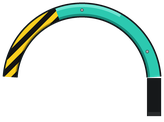
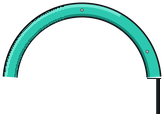
ビルド238

Changed region(s): [[0.0, 0.0492, 0.3963, 0.6393], [0.8841, 0.6393, 1.0, 0.959]]

diff --git a/index.html b/index.html
@@ -301,33 +301,33 @@
     color: #1b1f24; font-size: 13px; font-weight: bold; line-height: 1.2; text-align: center;
     background: none;
     border: 14px solid transparent; border-width: 14px; margin: 0;
-    border-image: url(assets/common/ui/btn_plate.png?v=237) 14 fill / 14px stretch;
+    border-image: url(assets/common/ui/btn_plate.png?v=238) 14 fill / 14px stretch;
     border-radius: 0;
     text-shadow: 0 1px 0 rgba(255,255,255,.35);
   }
-  .plate:active, #floorPanel .mechRow button:active, #chockPanel button:active, #btnOrient:active, #btnOrientCar:active, #deckDrawerHandle:active { border-image-source: url(assets/common/ui/btn_plate_pressed.png?v=237); padding-top: 2px; }
-  #floorPanel .mechRow button.on, #chockPanel button.on, #btnOrientCar { border-image-source: url(assets/common/ui/btn_plate_go.png?v=237); }
-  #floorPanel .mechRow button.on:active, #btnOrientCar:active { border-image-source: url(assets/common/ui/btn_plate_go_pressed.png?v=237); }
-  #btnStopper:not(.on), #btnLid { border-image-source: url(assets/common/ui/btn_plate_warn.png?v=237); }
-  #btnStopper:not(.on):active, #btnLid:active { border-image-source: url(assets/common/ui/btn_plate_warn_pressed.png?v=237); }
-  #floorPanel .mechRow button.go { border-image-source: url(assets/common/ui/btn_plate_go.png?v=237); }
-  #floorPanel .mechRow button.go:active { border-image-source: url(assets/common/ui/btn_plate_go_pressed.png?v=237); }
-  #chockPanel button:disabled, #btnOrient:disabled { border-image-source: url(assets/common/ui/btn_plate_disabled.png?v=237); opacity: 1; color: #6b7078; text-shadow: none; }
+  .plate:active, #floorPanel .mechRow button:active, #chockPanel button:active, #btnOrient:active, #btnOrientCar:active, #deckDrawerHandle:active { border-image-source: url(assets/common/ui/btn_plate_pressed.png?v=238); padding-top: 2px; }
+  #floorPanel .mechRow button.on, #chockPanel button.on, #btnOrientCar { border-image-source: url(assets/common/ui/btn_plate_go.png?v=238); }
+  #floorPanel .mechRow button.on:active, #btnOrientCar:active { border-image-source: url(assets/common/ui/btn_plate_go_pressed.png?v=238); }
+  #btnStopper:not(.on), #btnLid { border-image-source: url(assets/common/ui/btn_plate_warn.png?v=238); }
+  #btnStopper:not(.on):active, #btnLid:active { border-image-source: url(assets/common/ui/btn_plate_warn_pressed.png?v=238); }
+  #floorPanel .mechRow button.go { border-image-source: url(assets/common/ui/btn_plate_go.png?v=238); }
+  #floorPanel .mechRow button.go:active { border-image-source: url(assets/common/ui/btn_plate_go_pressed.png?v=238); }
+  #chockPanel button:disabled, #btnOrient:disabled { border-image-source: url(assets/common/ui/btn_plate_disabled.png?v=238); opacity: 1; color: #6b7078; text-shadow: none; }
   #floorPanel .mechRow button::before, #chockPanel #btnLid::before, #chockPanel #btnChockSet::before, #chockPanel #btnChockFront::before, #chockPanel #btnChockRear::before, #btnOrient::before, #btnOrientCar::before, #deckDrawerHandle::before {
     content: ''; flex: none; width: 26px; height: 26px; background-position: center; background-size: contain; background-repeat: no-repeat;
   }
   #modeBar > span:empty { display: none; }
   #floorPanel .mechRow button.hold6b::before { display: none; }   /* semi-6b の仮の昇降ボタン(アイコン無し) */
-  #btnStopper::before { background-image: url(assets/common/ui/ic_stopper.png?v=237); }
-  #btnRamp::before { background-image: url(assets/common/ui/ic_ramp.png?v=237); }
-  #btnBridge::before, #btnSlide::before { background-image: url(assets/common/ui/ic_bridge.png?v=237); }
-  #btnF2Flap::before { background-image: url(assets/common/ui/ic_flap2.png?v=237); }
-  #btnLid::before { background-image: url(assets/common/ui/ic_lid.png?v=237); }
-  #btnChockSet::before { background-image: url(assets/common/ui/ic_chock.png?v=237); }
-  #btnChockFront::before { background-image: url(assets/common/ui/ic_front.png?v=237); }
-  #btnChockRear::before { background-image: url(assets/common/ui/ic_rear.png?v=237); }
-  #btnOrient::before, #btnOrientCar::before { background-image: url(assets/common/ui/ic_orient.png?v=237); }
-  #deckDrawerHandle::before { background-image: url(assets/common/ui/ic_drawer.png?v=237); }
+  #btnStopper::before { background-image: url(assets/common/ui/ic_stopper.png?v=238); }
+  #btnRamp::before { background-image: url(assets/common/ui/ic_ramp.png?v=238); }
+  #btnBridge::before, #btnSlide::before { background-image: url(assets/common/ui/ic_bridge.png?v=238); }
+  #btnF2Flap::before { background-image: url(assets/common/ui/ic_flap2.png?v=238); }
+  #btnLid::before { background-image: url(assets/common/ui/ic_lid.png?v=238); }
+  #btnChockSet::before { background-image: url(assets/common/ui/ic_chock.png?v=238); }
+  #btnChockFront::before { background-image: url(assets/common/ui/ic_front.png?v=238); }
+  #btnChockRear::before { background-image: url(assets/common/ui/ic_rear.png?v=238); }
+  #btnOrient::before, #btnOrientCar::before { background-image: url(assets/common/ui/ic_orient.png?v=238); }
+  #deckDrawerHandle::before { background-image: url(assets/common/ui/ic_drawer.png?v=238); }
   #chockPanel #btnChockFront, #chockPanel #btnChockRear { font-size: 0; padding: 0 4px; min-width: 56px; }   /* ◀前へ・後ろへ▶ は、アイコンだけ */
   #chockPanel #btnChockFront::after { content: '前へ'; font-size: 12px; }
   #chockPanel #btnChockRear::after { content: '後ろへ'; font-size: 12px; }
@@ -336,57 +336,57 @@
   /* 輪止め・落し蓋のスロット: 棚の名札(slot_*)。選んでいる番号は黄色い縁 */
   #slotSel button { box-sizing: border-box; width: 46px; height: 46px; min-width: 0; padding: 0; border: 0; border-radius: 0; font-size: 0; color: transparent; background: center / contain no-repeat; }
   #slotSel button.on { background-color: transparent; border: 0; }
-  #slotSel button[data-slot="1"] { background-image: url(assets/common/ui/slot_1.png?v=237); } #slotSel button[data-slot="1"].on { background-image: url(assets/common/ui/slot_1_selected.png?v=214); }
-  #slotSel button[data-slot="2"] { background-image: url(assets/common/ui/slot_2.png?v=237); } #slotSel button[data-slot="2"].on { background-image: url(assets/common/ui/slot_2_selected.png?v=214); }
-  #slotSel button[data-slot="3"] { background-image: url(assets/common/ui/slot_3.png?v=237); } #slotSel button[data-slot="3"].on { background-image: url(assets/common/ui/slot_3_selected.png?v=214); }
-  #slotSel button[data-slot="4"] { background-image: url(assets/common/ui/slot_4.png?v=237); } #slotSel button[data-slot="4"].on { background-image: url(assets/common/ui/slot_4_selected.png?v=214); }
-  #slotSel button[data-slot="5"] { background-image: url(assets/common/ui/slot_5.png?v=237); } #slotSel button[data-slot="5"].on { background-image: url(assets/common/ui/slot_5_selected.png?v=214); }
-  #slotSel button[data-slot="6"] { background-image: url(assets/common/ui/slot_6.png?v=237); } #slotSel button[data-slot="6"].on { background-image: url(assets/common/ui/slot_6_selected.png?v=214); }
-  #slotSel button[data-slot="7"] { background-image: url(assets/common/ui/slot_mid.png?v=237); } #slotSel button[data-slot="7"].on { background-image: url(assets/common/ui/slot_mid_selected.png?v=214); }
+  #slotSel button[data-slot="1"] { background-image: url(assets/common/ui/slot_1.png?v=238); } #slotSel button[data-slot="1"].on { background-image: url(assets/common/ui/slot_1_selected.png?v=214); }
+  #slotSel button[data-slot="2"] { background-image: url(assets/common/ui/slot_2.png?v=238); } #slotSel button[data-slot="2"].on { background-image: url(assets/common/ui/slot_2_selected.png?v=214); }
+  #slotSel button[data-slot="3"] { background-image: url(assets/common/ui/slot_3.png?v=238); } #slotSel button[data-slot="3"].on { background-image: url(assets/common/ui/slot_3_selected.png?v=214); }
+  #slotSel button[data-slot="4"] { background-image: url(assets/common/ui/slot_4.png?v=238); } #slotSel button[data-slot="4"].on { background-image: url(assets/common/ui/slot_4_selected.png?v=214); }
+  #slotSel button[data-slot="5"] { background-image: url(assets/common/ui/slot_5.png?v=238); } #slotSel button[data-slot="5"].on { background-image: url(assets/common/ui/slot_5_selected.png?v=214); }
+  #slotSel button[data-slot="6"] { background-image: url(assets/common/ui/slot_6.png?v=238); } #slotSel button[data-slot="6"].on { background-image: url(assets/common/ui/slot_6_selected.png?v=214); }
+  #slotSel button[data-slot="7"] { background-image: url(assets/common/ui/slot_mid.png?v=238); } #slotSel button[data-slot="7"].on { background-image: url(assets/common/ui/slot_mid_selected.png?v=214); }
   #slotSel button:active { filter: brightness(.85); }
 
   /* 前進(◀ 緑)・後退(▶ 橙)の大きな丸い押ボタン(押している間は沈む。クラス down は ui_layout.js が付ける) */
   #arrowGroup { background: none; border: 0; padding: 0; gap: 14px; }
   #arrowGroup .arrowBtn { width: 76px; height: 76px; border: 0; border-radius: 0; background-color: transparent; background-position: center; background-size: contain; background-repeat: no-repeat; font-size: 0; color: transparent; }
-  #btnLeft { background-image: url(assets/common/ui/btn_drive_fwd.png?v=237); }
-  #btnRight { background-image: url(assets/common/ui/btn_drive_back.png?v=237); }
-  #btnLeft:active, #btnLeft.down { background-image: url(assets/common/ui/btn_drive_fwd_pressed.png?v=237); background-color: transparent; }
-  #btnRight:active, #btnRight.down { background-image: url(assets/common/ui/btn_drive_back_pressed.png?v=237); background-color: transparent; }
+  #btnLeft { background-image: url(assets/common/ui/btn_drive_fwd.png?v=238); }
+  #btnRight { background-image: url(assets/common/ui/btn_drive_back.png?v=238); }
+  #btnLeft:active, #btnLeft.down { background-image: url(assets/common/ui/btn_drive_fwd_pressed.png?v=238); background-color: transparent; }
+  #btnRight:active, #btnRight.down { background-image: url(assets/common/ui/btn_drive_back_pressed.png?v=238); background-color: transparent; }
   body { padding-bottom: 104px; }
 
   /* 上の情報欄・下の操作パネルの背景 */
-  #modeBar { box-sizing: border-box; background: none; border: solid transparent; border-width: 0 24px 6px 24px; border-image: url(assets/common/ui/hud_bar.png?v=237) 0 24 6 24 fill / 0 24px 6px 24px stretch; padding: 8px 0 4px; gap: 8px; color: #dfe8f2; min-height: 56px; align-items: center; }
+  #modeBar { box-sizing: border-box; background: none; border: solid transparent; border-width: 0 24px 6px 24px; border-image: url(assets/common/ui/hud_bar.png?v=238) 0 24 6 24 fill / 0 24px 6px 24px stretch; padding: 8px 0 4px; gap: 8px; color: #dfe8f2; min-height: 56px; align-items: center; }
   #modeBar #modeBarName { flex: 1 1 100%; font-size: 14px; }
-  #modeBar > span:not(#modeBarName):not(#missCount) { box-sizing: border-box; border: 8px solid transparent; border-image: url(assets/common/ui/meter_box.png?v=237) 8 fill / 8px stretch; padding: 0 2px; min-width: 56px; text-align: center; font-size: 13px; color: #7dfcd0; font-weight: bold; line-height: 1.1; }
+  #modeBar > span:not(#modeBarName):not(#missCount) { box-sizing: border-box; border: 8px solid transparent; border-image: url(assets/common/ui/meter_box.png?v=238) 8 fill / 8px stretch; padding: 0 2px; min-width: 56px; text-align: center; font-size: 13px; color: #7dfcd0; font-weight: bold; line-height: 1.1; }
   #modeBar #modeBarScore { margin-left: auto; color: #ffd34d; }
   #modeBar #missCount { margin-left: 4px; font-size: 14px; }
   #toolbar { display: none; }
   body.debug #toolbar { display: flex; }
   #status { display: none; }
   body.debug #status { display: block; }
-  #floorPanel, #chockPanel, #controls { box-sizing: border-box; background: none; border: solid transparent; border-width: 12px 16px 8px 16px; border-image: url(assets/common/ui/panel_bg.png?v=237) 12 16 8 16 fill / 12px 16px 8px 16px stretch; margin-top: 2px; }
+  #floorPanel, #chockPanel, #controls { box-sizing: border-box; background: none; border: solid transparent; border-width: 12px 16px 8px 16px; border-image: url(assets/common/ui/panel_bg.png?v=238) 12 16 8 16 fill / 12px 16px 8px 16px stretch; margin-top: 2px; }
 
   /* A-3 必要な時だけ出す: スイッチの説明文は ? を押した時だけ。車の一覧は引き出し式 */
   #swHint { display: none !important; }
   #swHint.show { display: block !important; }
   #btnHelp, #btnSwClose { box-sizing: border-box; width: 36px; height: 36px; padding: 0; margin-left: 8px; vertical-align: middle; border: 0; background: center / contain no-repeat; font-size: 0; color: transparent; cursor: pointer; }
-  #btnHelp { background-image: url(assets/common/ui/ic_help.png?v=237); }
-  #floorPanel #btnSwClose { width: 36px; height: 36px; padding: 0; margin-left: 4px; border: 0; background: center / contain no-repeat url(assets/common/ui/ic_close.png?v=237); font-size: 0; }
+  #btnHelp { background-image: url(assets/common/ui/ic_help.png?v=238); }
+  #floorPanel #btnSwClose { width: 36px; height: 36px; padding: 0; margin-left: 4px; border: 0; background: center / contain no-repeat url(assets/common/ui/ic_close.png?v=238); font-size: 0; }
   #deckDrawerHandle { width: 100%; justify-content: flex-start; }
   #deckDrawerHandle .cnt { margin-left: auto; font-weight: normal; }
   #deckDrawer { display: none; }
   #deckDrawer.open { display: block; margin-top: 6px; }
 
   /* 今は押せない操作(車が道板・扇動板を通っている間など)は、灰色の板にする(ui_layout.js が na を付ける。押すとゲームが理由を出す) */
-  #floorPanel .mechRow button.na, #floorPanel .mechRow button.na:active { border-image-source: url(assets/common/ui/btn_plate_disabled.png?v=237); color: #6b7078; text-shadow: none; padding-top: 0; }
+  #floorPanel .mechRow button.na, #floorPanel .mechRow button.na:active { border-image-source: url(assets/common/ui/btn_plate_disabled.png?v=238); color: #6b7078; text-shadow: none; padding-top: 0; }
   #floorPanel .mechRow button.na::before { opacity: .45; }
 
   /* モード・難易度・結果の画面のボタンも、同じ板にそろえる(もう一度=緑) */
-  .modeBtn { box-sizing: border-box; background: none; border: 14px solid transparent; border-image: url(assets/common/ui/btn_plate.png?v=237) 14 fill / 14px stretch; border-radius: 0; color: #1b1f24; text-shadow: 0 1px 0 rgba(255,255,255,.35); padding: 4px 8px; min-height: 52px; }
+  .modeBtn { box-sizing: border-box; background: none; border: 14px solid transparent; border-image: url(assets/common/ui/btn_plate.png?v=238) 14 fill / 14px stretch; border-radius: 0; color: #1b1f24; text-shadow: 0 1px 0 rgba(255,255,255,.35); padding: 4px 8px; min-height: 52px; }
   .modeBtn small { color: #3a4048; }
-  .modeBtn:active { background: none; border-image-source: url(assets/common/ui/btn_plate_pressed.png?v=237); }
-  #btnRetry.modeBtn { border-image-source: url(assets/common/ui/btn_plate_go.png?v=237); }
-  #btnRetry.modeBtn:active { border-image-source: url(assets/common/ui/btn_plate_go_pressed.png?v=237); }
+  .modeBtn:active { background: none; border-image-source: url(assets/common/ui/btn_plate_pressed.png?v=238); }
+  #btnRetry.modeBtn { border-image-source: url(assets/common/ui/btn_plate_go.png?v=238); }
+  #btnRetry.modeBtn:active { border-image-source: url(assets/common/ui/btn_plate_go_pressed.png?v=238); }
 
   /* ===== スマホ幅: 下にスクロールしなくても、操作が1画面に収まるように詰める(車の一覧だけ、下にスクロールでよい。2026-10-06) =====
      幅 700px 以下だけに効く(パソコンの広い画面は、今まで通り)。ボタンの高さ・余白・段数を減らす */
@@ -647,7 +647,7 @@
 // トレーラーの切り替え: URL の hash に trailer=semi-6b があれば semi-6b、無ければ semi-6(従来どおり)。選んだIDは window.TRAILER_ID。
 // 読むファイルの組み合わせがトレーラーごとに違う(設定・フロア機構・積める判定・操作ボタン)ので、ここで決めて順番に読む。画像・JSを差し替えたら ?v= を上げる
 (function () {
-  var m = /[#&]trailer=(semi-6b?)(?:&|$)/.exec(location.hash), id = window.TRAILER_ID = m ? m[1] : 'semi-6', V = '?v=237';
+  var m = /[#&]trailer=(semi-6b?)(?:&|$)/.exec(location.hash), id = window.TRAILER_ID = m ? m[1] : 'semi-6', V = '?v=238';
   var list = id === 'semi-6b'
     ? ['trailer_config_semi6b', 'car_library', 'car_dims', 'floor_mech_6b', 'loadable_6b', 'main', 'game', 'floor_controls_6b', 'modes', 'dispatch', 'ui_layout']
     : ['trailer_config', 'trailer_assets', 'car_library', 'car_dims', 'floor_mech', 'loadable', 'main', 'game', 'floor_controls', 'modes', 'tutorial', 'dispatch', 'ui_layout'];

diff --git a/js/trailer_config.js b/js/trailer_config.js
@@ -6,7 +6,7 @@ window.TRAILER_CONFIG = {
   "pxPerMeter": 114,
 
   "newArt": {
-    "v": 120,
+    "v": 121,
     "note": "グラフィック制作チャットの新素材(assets/semi-6/...)。floors=棚(ステージ全面サイズ)",
     "switchScale": 0.27, "switchDir": "assets/common/switches/",
     "switchParts": ["sw_pendant2", "sw_pendant6", "sw_box2", "lamp_panel_lock", "btn_cap_ue_big", "btn_cap_ue_big_pressed", "btn_cap_shita_big", "btn_cap_shita_big_pressed", "btn_sq", "btn_sq_pressed", "btn_cap6_nobi_big", "btn_cap6_chiji_big", "btn_cap6_migi_oshi_big", "btn_cap6_migi_hiki_big", "btn_cap6_hidari_oshi_big", "btn_cap6_hidari_hiki_big", "btn_cap6_nobi_big_pressed", "btn_cap6_chiji_big_pressed", "btn_cap6_migi_oshi_big_pressed", "btn_cap6_migi_hiki_big_pressed", "btn_cap6_hidari_oshi_big_pressed", "btn_cap6_hidari_hiki_big_pressed", "hint_glow", "lamp_green", "lamp_green_off", "lamp_red", "lamp_red_off"],

diff --git a/title.html b/title.html
@@ -449,6 +449,6 @@
   });
 })();
 </script>
-<div id="buildTag" style="position:fixed;right:8px;bottom:6px;font:11px/1 sans-serif;color:rgba(255,255,255,.55);text-shadow:0 1px 2px rgba(0,0,0,.6);z-index:5;pointer-events:none">ビルド 237</div>
+<div id="buildTag" style="position:fixed;right:8px;bottom:6px;font:11px/1 sans-serif;color:rgba(255,255,255,.55);text-shadow:0 1px 2px rgba(0,0,0,.6);z-index:5;pointer-events:none">ビルド 238</div>
 </body>
 </html>
